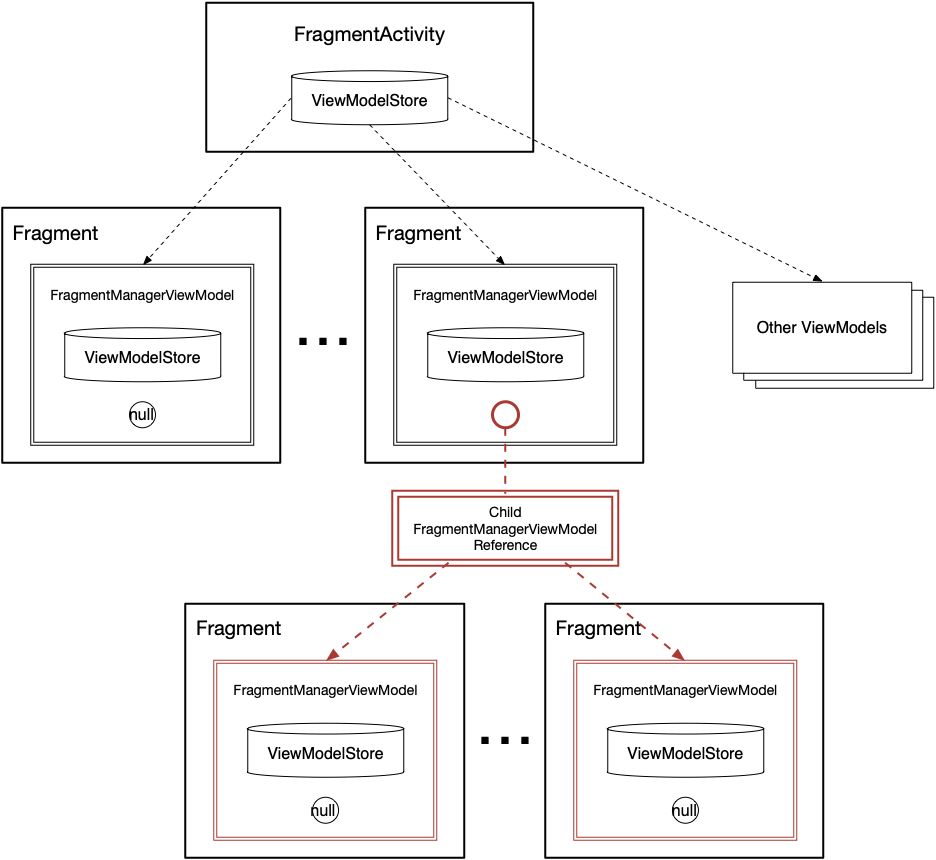
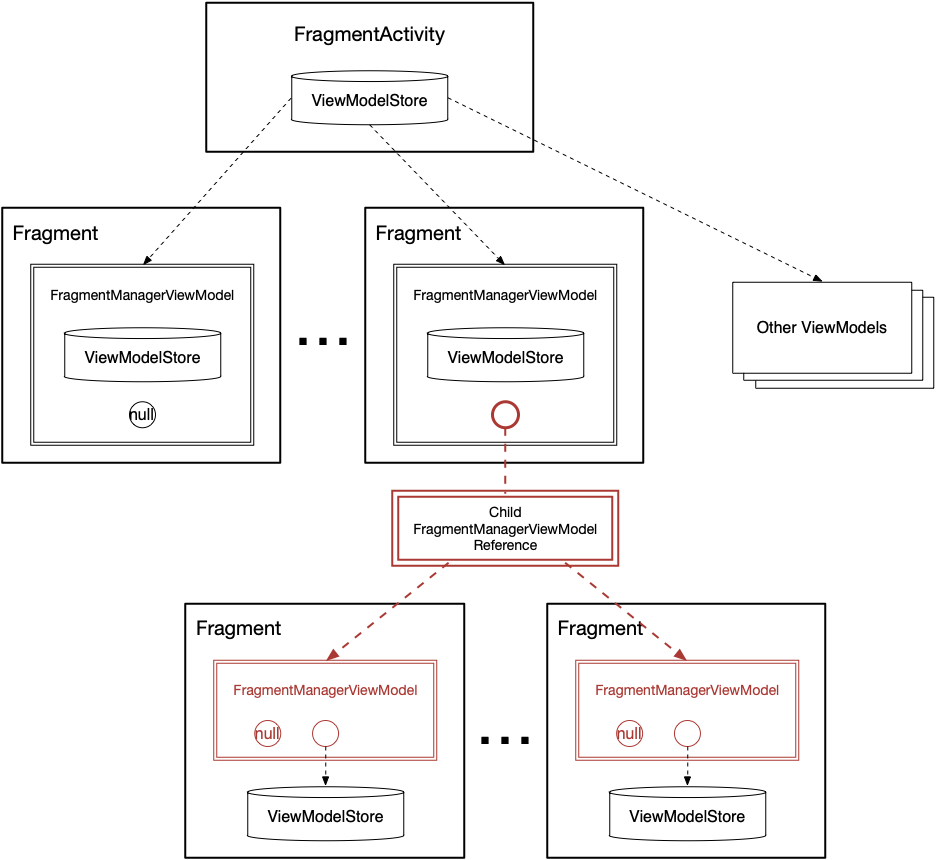
mvvm之ViewModel篇

Changed region(s): [[0.5577, 0.6953, 0.8985, 0.9977], [0.2169, 0.786, 0.4647, 0.9977]]

diff --git a/技术/android/mvvm之ViewModel篇/mvvm之ViewModel篇.md b/技术/android/mvvm之ViewModel篇/mvvm之ViewModel篇.md
@@ -143,7 +143,8 @@ public <T extends ViewModel> T get(@NonNull String key, @NonNull Class<T> modelC
 
 - 每个 ViewModelStore 依附于其宿主 Controller，所以各个 Controller 的 ViewModelStore 组成一个树状的引用关系；
 - 处于顶层的 ViewModelStore 依附于 FragmentActivity，它除了保存用户级的 ViewModel 以外，还保存其儿子 Fragment 的 FragmentManagerViewModel；
-- FragmentManagerViewModel 主要维护两个对象：所属 Fragment 的 ViewModelStore 和其儿子 Fragment 的 FragmentManagerViewModel 的引用，注意图中的红色部分，所有二级及以下的子孙 Fragment 都共用同一个父节点的 ChildFragmentManagerModel，这样当父 Fragment 销毁的时候方便一次性清除其所有子 Fragment 的 ViewModelStore；
+- FragmentManagerViewModel 主要维护两个对象：所属 Fragment 的 ViewModelStore 和其儿子 Fragment 的 FragmentManagerViewModel 的引用，注意图中的红色部分，所有二级及以下的子孙 Fragment 都共用同一个父节点的 Child FragmentManagerModel，这样当父 Fragment 销毁的时候方便一次性清除其所有子 Fragment 共用的 FragmentManagerViewModel；
+- 但是二级及以下的子孙 Fragment 的 ViewModelStore 都是独立的，一个 Fragment 自身的 ViewModel 变化应该不影响其兄弟节点的 ViewModel，所以可以推导出，它们共同的 FragmentManagerViewModel 应该是维护了一个保存各个子 Fragment 的 ViewModelStore 的容器，大家如果细看 FragmentManagerViewModel 的源代码，实际上就是这么做的。
 
 **所以，我们看到，处于顶层的 FragmentActivity 的 ViewModelStore 是一个超级 Store，它引用了所有的 ViewModels，包括自身的数据、所有子孙 Fragment 的 ViewModels，只要各子孙 Fragment 不清除自有 ViewModelStore，则所有的数据都维护在这棵 ViewModelStore 树中。**
 
